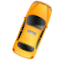
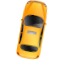
fixed graphics and more map stuff

Changed region(s): [[0.1875, 0.0, 0.8125, 0.9375], [0.5, 0.4688, 0.5938, 0.5625], [0.4062, 0.875, 0.4375, 0.9062]]

diff --git a/js-mqtt-map/map.html b/js-mqtt-map/map.html
@@ -51,14 +51,14 @@
 
     h1 {
       font: 18pt Roboto, sans-serif;
-      color: #00000;
+      color: #000000;
       padding: 2px;
       margin-top: 0px;
       margin-bottom: 0px;
     }
     h3 {
       font: 12pt Roboto, sans-serif;
-      color: #00000;
+      color: #000000;
       padding: 2px;
       margin-top: 0px;
       margin-bottom: 0px;
@@ -70,31 +70,24 @@
       margin-top: 1px;
       margin-bottom: 1px;
     }
-
-    .orange_o {
-      color: #f4961c;
-      font: 17pt century gothic;
-    }
-
     .labels {
       color: blue;
       background-color: white;
       font-family: "Verdana", "Arial", sans-serif;
-      font-size: 10px; //font-weight: bold;
+      font-size: 10px;
       text-align: center;
       width: 100px;
-      border: 1px solid blue; //     white-space: nowrap;
+      border: 1px solid blue; /*  white-space: nowrap; */
     }
 
     .labels3 {
-      //     color: blue;
       background-color: rgba(255, 255, 255, 0.7);
       font-family: "Arial", sans-serif;
       font-size: 14px;
       font-weight: bold;
       text-align: center;
       width: 120px;
-      border: 1px solid black; //     white-space: nowrap;
+      border: 1px solid black;
     }
 
     .labels2 {
@@ -106,7 +99,7 @@
       text-align: left;
       width: 80px;
       border: 1px solid rgba(0, 0, 100, 1);
-      padding-left: 1px; //     white-space: nowrap;
+      padding-left: 1px;
     }
 
   </style>
@@ -123,37 +116,32 @@
     // make the taxis fade out
     setInterval(function() {
       for (var key in vehicles) {
-        var delta = Date.now() - vehicles[key]["ts"];
+        if (!vehicles.hasOwnProperty(key)) continue;
+        var taxi = vehicles[key];
+        var delta = Date.now() - taxi.ts;
         if (delta > 11000) {
-          vehicles[key]["marker"].setMap(null);
+          // they have faded away!  Delete 'em!
+          taxi.marker.setMap(null);
+          if (taxi.infoWindow != null) {
+            taxi.infoWindow.close();
+            console.log("FADING AWAY A INFO WINDOW");
+          }
+          delete vehicles[key];
         } else if (delta > 9000) {
-          vehicles[key]["marker"].setOpacity(0.33);
+          taxi.marker.setOpacity(0.33);
         } else if (delta > 7000) {
-          vehicles[key]["marker"].setOpacity(0.66);
+          taxi.marker.setOpacity(0.66);
         }
       }
     }, 1000);
 
-    var icon_bus_small_ok = { url: "bus_small_ok.png", anchor: { x: 4, y: 4 }};
-    var icon_bus_small_stop = { url: "bus_small_stop.png", anchor: { x: 4, y: 4 }};
-    var icon_bus_small_msg = { url: "bus_small_msg.png", anchor: { x: 8, y: 8 }};
-    var icon_bus_small_fault = { url: "bus_small_fault.png", anchor: { x: 8, y: 8 }};
-    //var icon_bus_med_ok = { url: "bus_med_ok.png", anchor: { x: 8, y: 8 }};
-    var icon_bus_med_ok = { url: "taxi32_3.png", anchor: { x: 8, y: 8 }};
-    var icon_bus_med_stop = { url: "bus_med_stop.png", anchor: { x: 8, y: 8 }};
-    var icon_bus_med_msg = { url: "bus_med_msg.png", anchor: { x: 16, y: 16 }};
     var icon_bus_med_fault = { url: "bus_med_fault.png", anchor: { x: 16, y: 16 }};
 
-    var icon_taxi_16 = [];
-    var icon_taxi_32 = [];
     var icon_taxi_64 = [];
-    for (var i=0;i<16;i++) {
-      //icon_taxi_16.push({ url: "gfx/taxi16_"+i+".png", anchor: { x: 8, y: 8 }});
-      //icon_taxi_32.push({ url: "gfx/taxi32_"+i+".png", anchor: { x: 16, y: 16 }});
-      //icon_taxi_64.push({ url: "gfx/taxi64_"+i+".png", anchor: { x: 32, y: 32 }, scaledSize: new google.maps.Size(24,24)});
+    for (var i=0;i<36;i++) {
       icon_taxi_64.push({ url: "gfx/taxi64_"+i+".png"});//, anchor: { x: 24, y: 24 }});
     }
- //console.log(icon_taxi_16);
+    var infoWindows = [];
 
     function initialize() {
       var mapOptions = {
@@ -183,6 +171,7 @@
         console.log("Zoom changed!!  from " + zoomLevel + " to " + map.getZoom());
         zoomLevel = map.getZoom();
         for (key in vehicles) {
+          if (!vehicles.hasOwnProperty(key)) continue;
           setTaxiIcon(key);
         }
       });
@@ -191,37 +180,39 @@
     google.maps.event.addDomListener(window, 'load', initialize);  // when page is loaded, call initialize()
 
 
+
+    var sizes = [];
+    sizes[11] = new google.maps.Size(16,16);
+    sizes[12] = new google.maps.Size(24,24);
+    sizes[13] = new google.maps.Size(32,32);
+    sizes[14] = new google.maps.Size(36,36);
+    sizes[15] = new google.maps.Size(40,40);
+    sizes[16] = new google.maps.Size(44,44);
+    sizes[17] = new google.maps.Size(48,48);
+    sizes[18] = new google.maps.Size(56,56);
+
     function setTaxiIcon(vehNum) {
-      var vehicle = vehicles[vehNum];
-      var payload = vehicle.payload;
+      var taxi = vehicles[vehNum];
+      var payload = taxi.payload;
       //var status = vehicles[vehNum]["payload"].status;
-  //vehicle.marker.setIcon(icon_taxi_64[Math.floor((payload.heading +11.25) / 22.5) % 16]);
-      var headingIndex = Math.floor((payload.heading +11.25) / 22.5) % 16;
-      vehicle.marker.setIcon(icon_taxi_64[headingIndex]);
-      if (zoomLevel < 12) {
-        vehicle.marker.getIcon().scaledSize = new google.maps.Size(16,16);
-        vehicle.marker.getIcon().anchor = { x: 8, y: 8 };
+      //taxi.marker.setIcon(icon_taxi_64[Math.floor((payload.heading +11.25) / 22.5) % 16]);
+      //var headingIndex = Math.floor((payload.heading +11.25) / 22.5) % 16;
+      var headingIndex = Math.floor((payload.heading +5) / 10) % 36;
+      taxi.marker.setIcon(icon_taxi_64[headingIndex]);
+      if (zoomLevel < 11) {
+        taxi.marker.getIcon().scaledSize = new google.maps.Size(16,16);
+        taxi.marker.getIcon().anchor = { x: 8, y: 8 };
         return;
-      } else if (zoomLevel >= 15) {
-        vehicle.marker.getIcon().scaledSize = new google.maps.Size(64,64);
-        vehicle.marker.getIcon().anchor = { x: 32, y: 32 };
+      } else if (zoomLevel > 18) {
+        taxi.marker.getIcon().scaledSize = new google.maps.Size(64,64);
+        taxi.marker.getIcon().anchor = { x: 32, y: 32 };
         return;
       }
-      switch (zoomLevel) {
-        case 12:
-          vehicle.marker.getIcon().scaledSize = new google.maps.Size(24,24); break;
-          vehicle.marker.getIcon().anchor = { x: 12, y: 12 };
-        case 13:
-          vehicle.marker.getIcon().scaledSize = new google.maps.Size(32,32); break;
-          vehicle.marker.getIcon().anchor = { x: 16, y: 16 };
-        case 14:
-          vehicle.marker.getIcon().scaledSize = new google.maps.Size(40,40); break;
-          vehicle.marker.getIcon().anchor = { x: 20, y: 20 };
-        case 15:
-          vehicle.marker.getIcon().scaledSize = new google.maps.Size(48,48); break;
-          vehicle.marker.getIcon().anchor = { x: 24, y: 24 };
-      }
-      //vehicle.marker.getIcon().scaledSize = new google.maps.Size(Math.pow(2,zoomLevel-10), Math.pow(2,zoomLevel-10));
+      // else... it's in 11..18
+      var anchorPoint = sizes[zoomLevel].width / 2;
+      taxi.marker.getIcon().scaledSize = sizes[zoomLevel];
+      taxi.marker.getIcon().anchor = { x: anchorPoint, y: anchorPoint };
+      //taxi.marker.getIcon().scaledSize = new google.maps.Size(Math.pow(2,zoomLevel-10), Math.pow(2,zoomLevel-10));
     }
 
 
@@ -256,7 +247,7 @@
     // called when a message arrives
     function onMessageArrived(msg) {
       if (msg.destinationName.indexOf("taxinyc/ops/ride/updated/v1") == 0) {
-          parseRideUpdatedMessage(msg);
+        parseRideUpdatedMessage(msg);
       }
     }
 
@@ -287,25 +278,25 @@
         messageWindow.setContent(message.getBinaryAttachment());
         messageWindow.open(map,vehicle["marker"]);
         google.maps.event.addListener(messageWindow, 'closeclick', function() {
-          vehicle["marker"].setAnimation(google.maps.Animation.NONE);
+          vehicle.marker.setAnimation(google.maps.Animation.NONE);
         });
-        vehicle["marker"].setIcon(icon_bus_med_msg);
-        vehicle["marker"].setAnimation(google.maps.Animation.BOUNCE);
-        vehicle["marker"].setZIndex(globalZindex+100);  // pop to top
+        vehicle.marker.setIcon(icon_bus_med_msg);
+        vehicle.marker.setAnimation(google.maps.Animation.BOUNCE);
+        vehicle.marker.setZIndex(globalZindex+100);  // pop to top
       } else if (levels[1] == "route") {
         for (var i=1000;i<10000;i++) { //var key in vehicles) {
           if (vehicles[i] != null && vehicles[i]["route"] == levels[2]) {
-            vehicles[i]["marker"].setIcon(icon_bus_med_msg);
-            vehicles[i]["marker"].setZIndex(globalZindex++);  // pop to top
-            vehicles[i]["marker"].setAnimation(google.maps.Animation.BOUNCE);
+            vehicles[i].marker.setIcon(icon_bus_med_msg);
+            vehicles[i].marker.setZIndex(globalZindex++);  // pop to top
+            vehicles[i].marker.setAnimation(google.maps.Animation.BOUNCE);
           }
         }
       } else if (levels[1] == "broadcast") {
         for (var i=1000;i<10000;i++) { //var key in vehicles) {
           if (vehicles[i] != null) {
-            vehicles[i]["marker"].setIcon(icon_bus_med_msg);
-            vehicles[i]["marker"].setZIndex(globalZindex++);  // pop to top
-            vehicles[i]["marker"].setAnimation(google.maps.Animation.BOUNCE);
+            vehicles[i].marker.setIcon(icon_bus_med_msg);
+            vehicles[i].marker.setZIndex(globalZindex++);  // pop to top
+            vehicles[i].marker.setAnimation(google.maps.Animation.BOUNCE);
           }
         }
       } else if (levels[1] == "dispatch") {
@@ -318,7 +309,7 @@
       var contentString = '<div id="content">';
       var taxi = vehicles[vehNum];
       var payload = taxi.payload;
-      console.log(payload);
+      //console.log(payload);
       //return;
       contentString = '<h2 id="firstHeading" class="firstHeading">Driver: '+payload.driver.first_name+' '+payload.driver.last_name+'</h2>' +
           '<div id="bodyContent"><p>' +
@@ -347,58 +338,66 @@
       //console.log(payload);
       //console.log(Math.floor(payload.heading / 22.5));
       var vehNum = payload.driver.driver_id;
-      var vehicle;  // for later
+      var taxi;  // for later
       // now, have we seen this guy before?
       if (!(vehNum in vehicles)) {
         vehicles[vehNum] = {}; // create new hash
-        vehicle = vehicles[vehNum];
-        vehicle["marker"] = new google.maps.Marker({
+        taxi = vehicles[vehNum];
+        taxi["marker"] = new google.maps.Marker({
           zIndex: globalZindex++,
           //label: { text: "asfasdfasdf" }
         });
         // if they click the icon, pop up a window
-        google.maps.event.addListener(vehicle.marker, 'click', function() {
-          console.log("I GOT CLICKED!");
-          //console.log(payload.driver);
-          vehicle.marker.setZIndex(globalZindex++);  // pop to top
+        google.maps.event.addListener(taxi.marker, 'click', function() {
+          taxi.marker.setZIndex(globalZindex++);  // pop to top
           //buildBusInfoWindowContent(vehNum);
-          if (vehicle.infoWindow != null) return;
-          vehicle.infoWindow = new google.maps.InfoWindow();
-          // populate with something
-          vehicle["infoWindow"].setContent(buildBusInfoWindowContent(vehNum));
-          vehicle.infoWindow.vehicle = vehicle;
-     //console.log(vehicle.infoWindow);
-          vehicle["infoWindow"].open(map, vehicle["marker"]);
-          google.maps.event.addListener(vehicle["infoWindow"], 'closeclick', function() {
-            vehicle["infoWindow"] = null;
+          if (taxi.infoWindow != null) {
+            taxi.infoWindow.setZIndex(globalZindex++);
+            return;
+          }
+          // var infoWindowOptions = {
+          //   disableAutoPan: true,
+          // }
+          taxi.infoWindow = new google.maps.InfoWindow({ disableAutoPan: true});
+          taxi.infoWindow.setZIndex(globalZindex++);
+          taxi.infoWindow.setContent(buildBusInfoWindowContent(vehNum));
+          taxi.infoWindow.taxi = taxi;
+          taxi.infoWindow.open(map, taxi.marker);
+          google.maps.event.addListener(taxi["infoWindow"], 'closeclick', function() {
+            taxi.infoWindow = null;
           });
+          infoWindows.push(taxi.infoWindow);
+          if (infoWindows.length > 5) {
+            var oldInfo = infoWindows.shift(1);
+            oldInfo.taxi.infoWindow = null;
+            oldInfo.close();
+          }
         });
       }
       // now we've inserted the new guy for sure
-      vehicle = vehicles[vehNum];
-      //lat = lat + vehicle["latOff"];
-      //lon += vehicle["lonOff"];
+      taxi = vehicles[vehNum];
+      //lat = lat + taxi["latOff"];
+      //lon += taxi["lonOff"];
       var lat = payload.latitude;
       var lon = payload.longitude;
 
-      vehicle["pos"] = new google.maps.LatLng(lat, lon);
+      taxi["pos"] = new google.maps.LatLng(lat, lon);
 
-      vehicle["marker"].setPosition(vehicle["pos"]);
-      vehicle["marker"].setAnimation(google.maps.Animation.NONE);
-      //vehicle.marker.setIcon(icon_bus_med_ok);
-      //vehicle.marker.setIcon(icon_taxi_64[Math.floor((payload.heading +11.25) / 22.5) % 16]);
+      taxi.marker.setPosition(taxi["pos"]);
+      taxi.marker.setAnimation(google.maps.Animation.NONE);
+      
 
-      vehicle["payload"] = payload;
+      taxi["payload"] = payload;
 
-      vehicle["marker"].setOpacity(1);
+      taxi.marker.setOpacity(1);
       setTaxiIcon(vehNum);
-      if (vehicle["marker"].getMap() == null) {  // this is needed to prevent flickering, rather than just setting the map explicitly
-        vehicle["marker"].setMap(map);
+      if (taxi.marker.getMap() == null) {  // this is needed to prevent flickering, rather than just setting the map explicitly
+        taxi.marker.setMap(map);
       }
-      vehicle["ts"] = Date.now();
-      if (vehicle.infoWindow != null) {
+      taxi["ts"] = Date.now();
+      if (taxi.infoWindow != null) {
         // update it
-        vehicle.infoWindow.setContent(buildBusInfoWindowContent(vehNum));
+        taxi.infoWindow.setContent(buildBusInfoWindowContent(vehNum));
       }
     }  // end parseRideUpdatedMessage
 
@@ -411,7 +410,7 @@
 <body>
 
   <div id="map-canvas"></div>
-  <div id="over_map_tl">
+  <!--div id="over_map_tl">
     <h3>Filtering:</h3>
     <table>
       <tr>
@@ -421,8 +420,8 @@
         </td>
       </tr>
     </table>
+  </div-->
 
-  </div>
   <div id="over_map_tr">
     <h1>Modern NYC Connected Taxi Demo</h1>
   </div>
